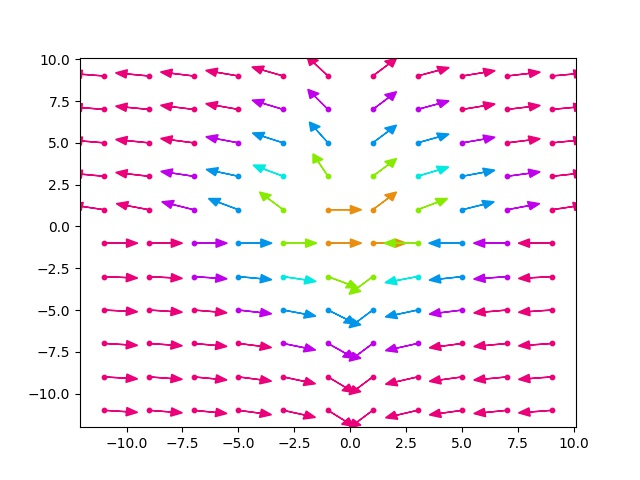
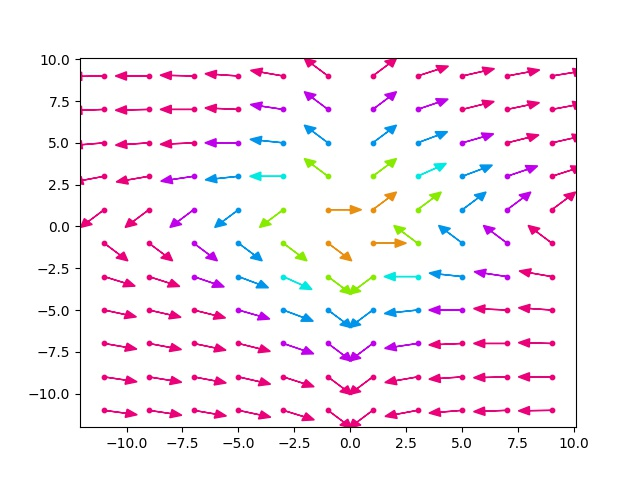
Adding Tester

diff --git a/test.py b/test.py
@@ -1,3 +1,4 @@
-import take_function as t
-
-t.graph("x", "y", skip=2, head_size=0.25)
+from visualizer import Visualizer
+v = Visualizer("x*y+1", "y+x")
+v.plot_color(skip=2)
+print(v.div(1,2))
